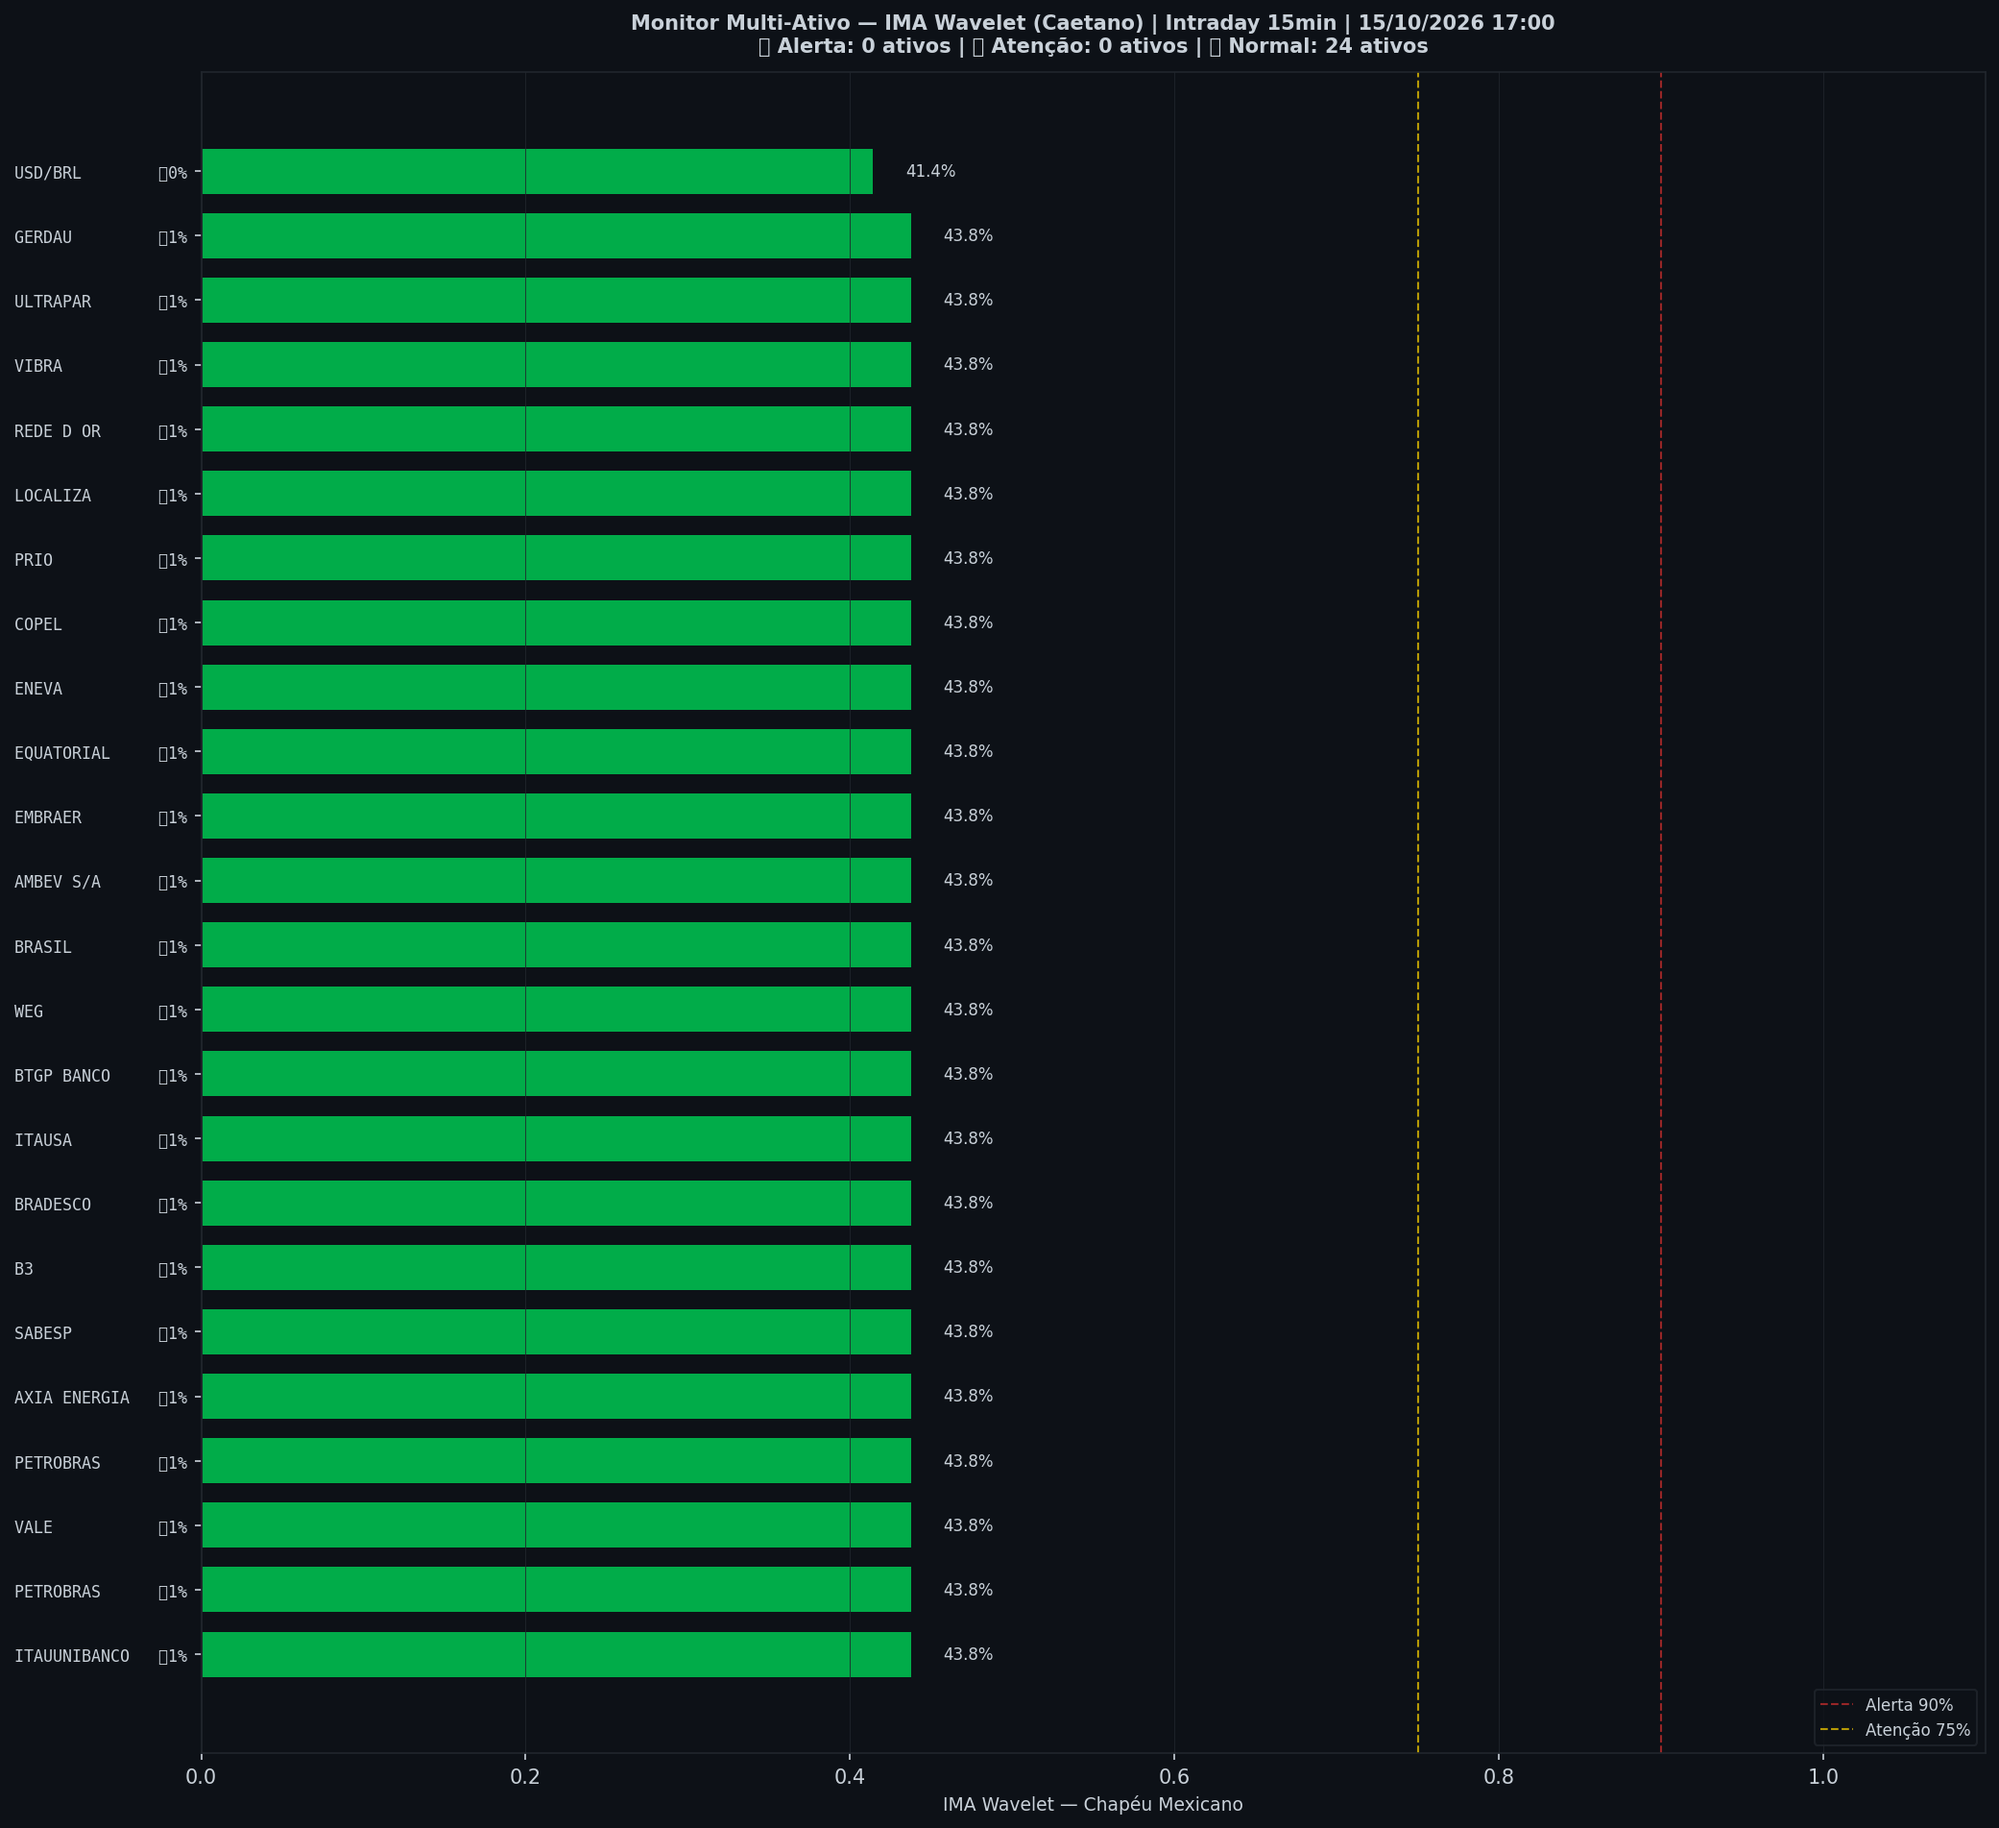
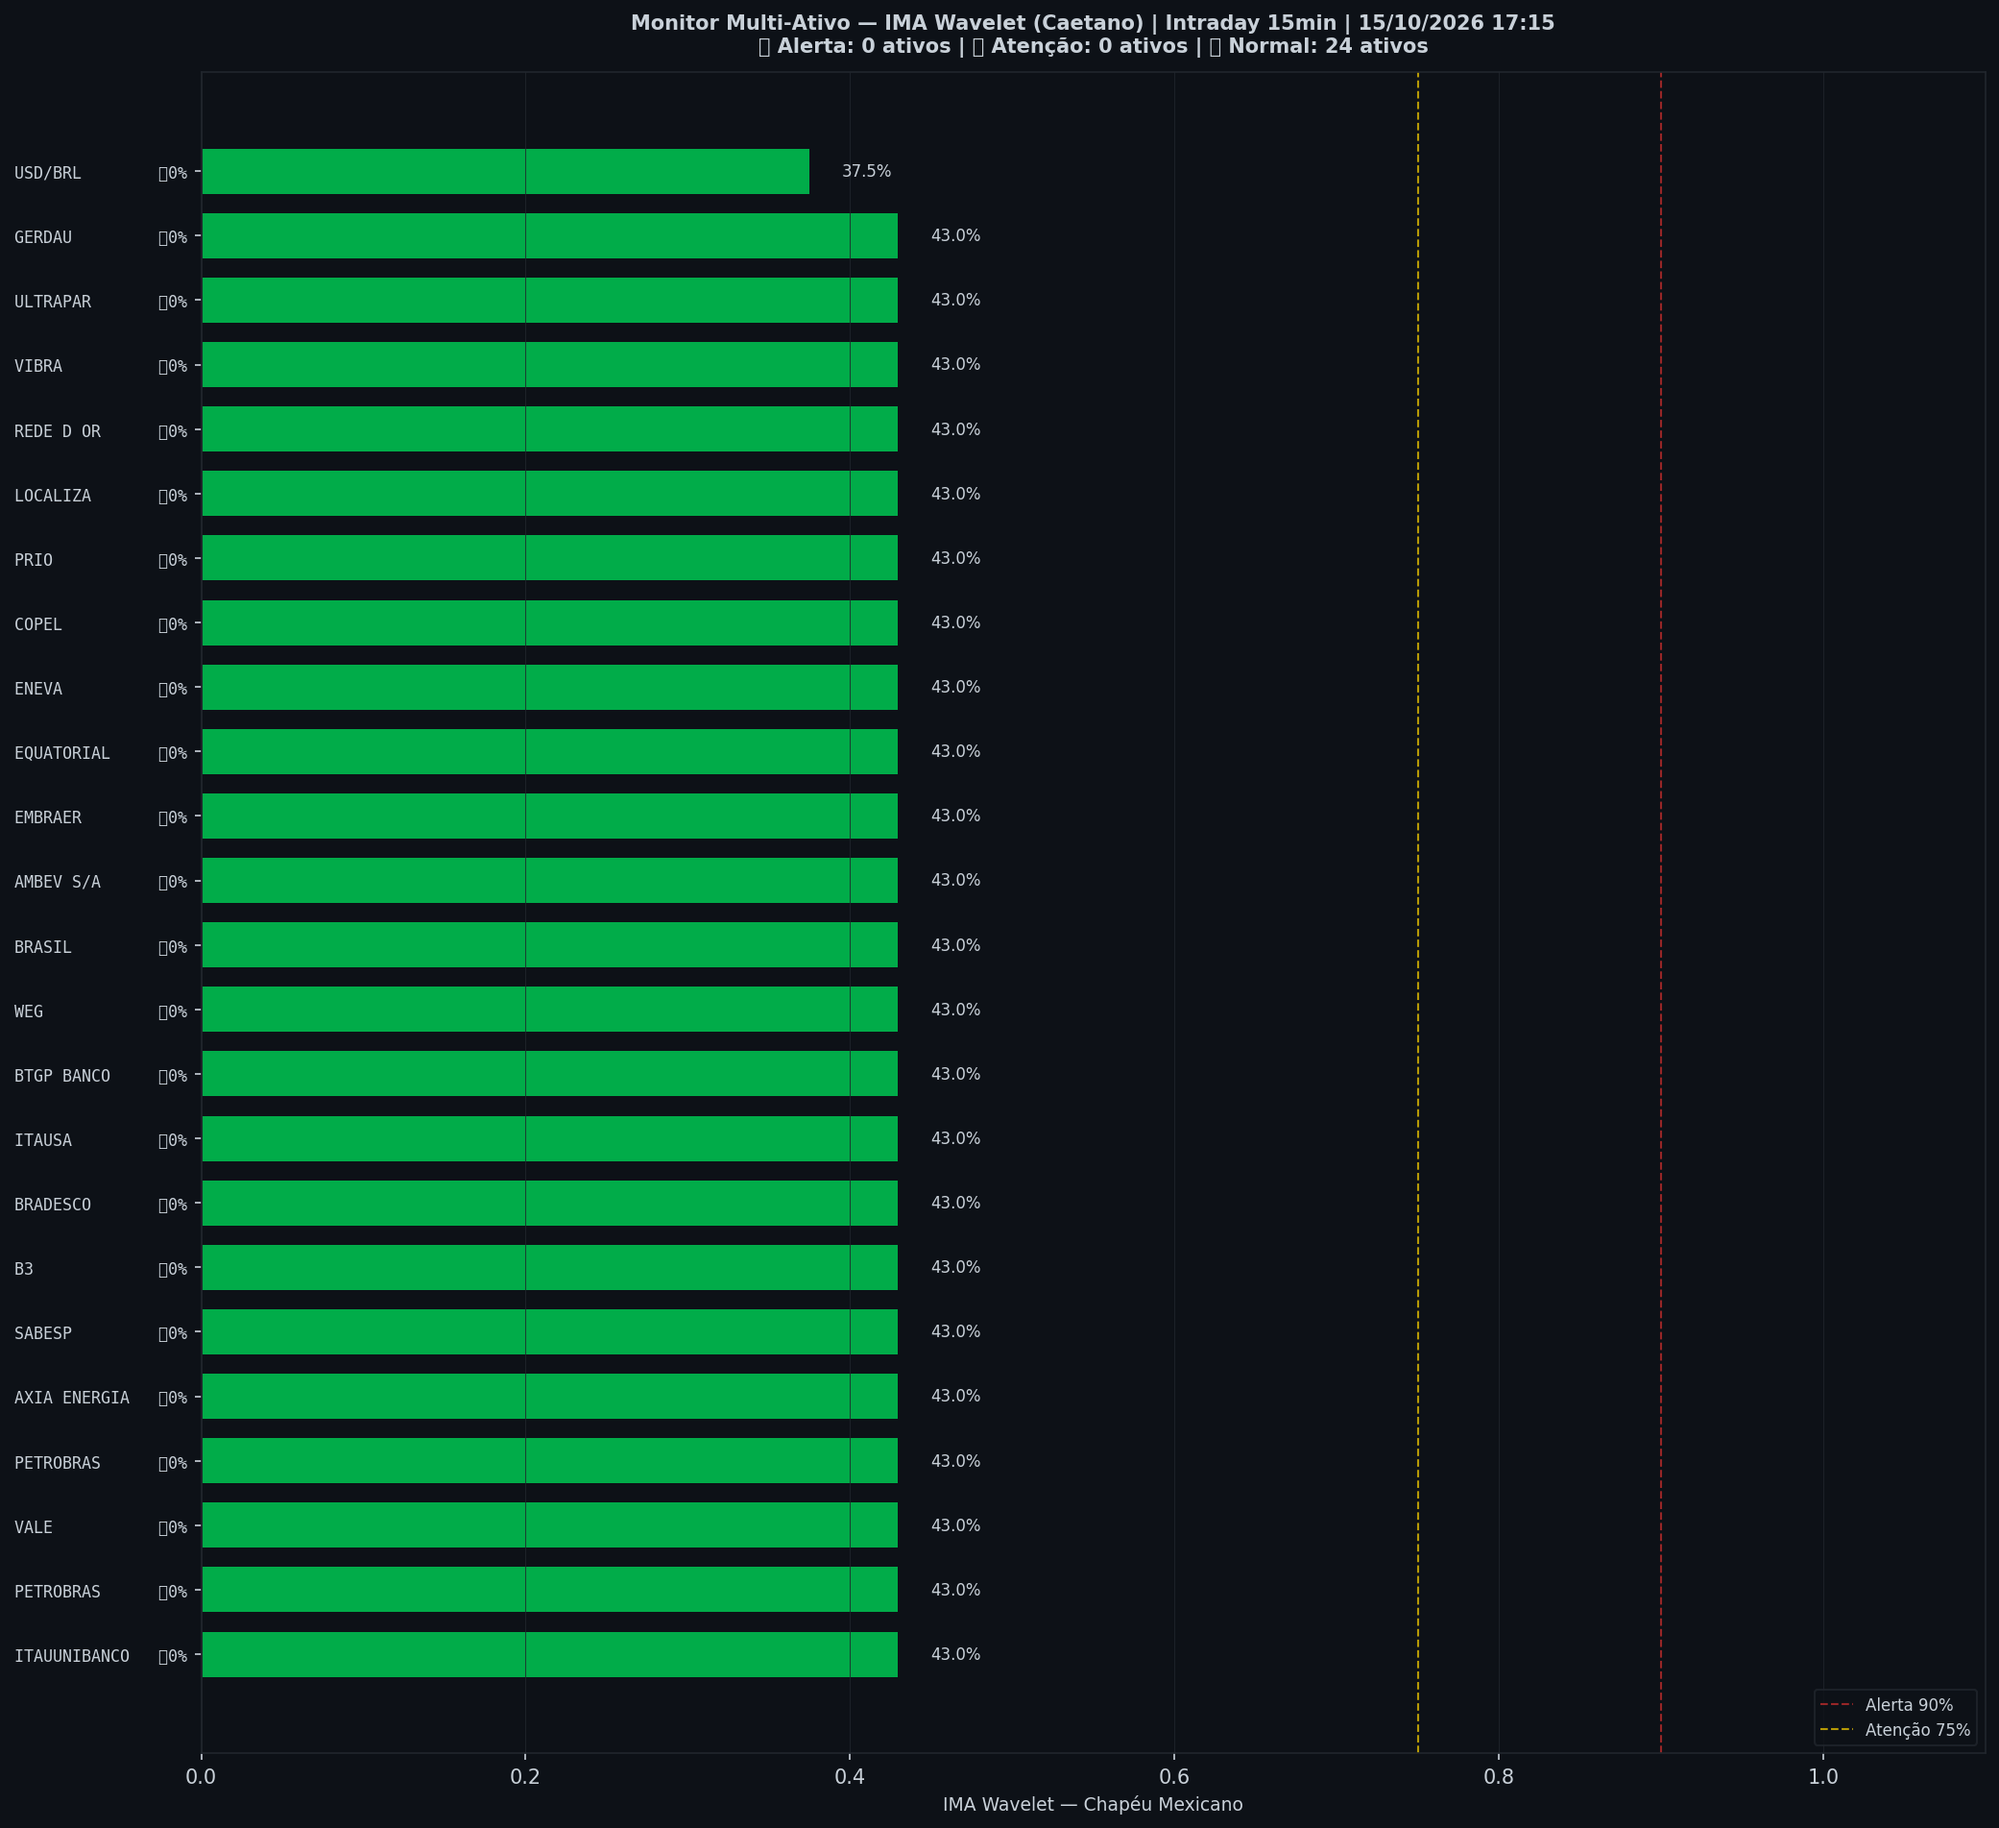
🤖 Auto: Sinal 15/10/2026 17:15

Changed region(s): [[0.4371, 0.124, 0.4995, 0.9301], [0.4059, 0.062, 0.4371, 0.124]]

diff --git a/content/intraday/2026-10-15.md b/content/intraday/2026-10-15.md
@@ -1,10 +1,10 @@
 ---
-title: "🟢 Intraday 15/10/2026 16:15 BRT — VERDE"
+title: "🟢 Intraday 15/10/2026 16:30 BRT — VERDE"
 date: 2026-10-15
 tags: [intraday]
 ---
 
-> [!success] 🟢 **VERDE** — Risco 2% · ▲ +1 p.p. vs leitura anterior
+> [!success] 🟢 **VERDE** — Risco 2% · ＝ +0 p.p. vs leitura anterior
 > `░░░░░░░░░░░░░░░░░░░░`
 > Mercado sem sinais relevantes de estresse.
 
@@ -12,9 +12,9 @@ tags: [intraday]
 | Indicador | Valor |
 |---|---|
 | 🔴 ζ Crash — severidade da queda em curso | **2%** |
-| 🔵 ζ Entrada — estrutura de fundo | 2% |
+| 🔵 ζ Entrada — estrutura de fundo | 5% |
 | 🫧 LPPL DS-Confidence | 0% |
-| 📊 Ibovespa | 203.849 pts |
+| 📊 Ibovespa | 204.063 pts |
 
 ![Gráfico do sinal](../graficos/sinal_intraday.png)
 
@@ -22,6 +22,7 @@ tags: [intraday]
 
 | Data | Zona | Risco | IMA Crash | Entrada | LPPL |
 |---|---|---|---|---|---|
+| 2026-10-15 16:30 | 🟢 VERDE | **2%** | 2% | 5% | 0% |
 | 2026-10-15 16:15 | 🟢 VERDE | **2%** | 2% | 2% | 0% |
 | 2026-10-15 16:00 | 🟢 VERDE | **2%** | 2% | 1% | 0% |
 | 2026-10-15 15:45 | 🟢 VERDE | **0%** | 0% | 0% | 0% |
@@ -51,7 +52,6 @@ tags: [intraday]
 | 2026-10-14 16:45 | 🟢 VERDE | **0%** | 0% | 0% | 0% |
 | 2026-10-14 16:30 | 🟢 VERDE | **0%** | 0% | 2% | 0% |
 | 2026-10-14 16:15 | 🟢 VERDE | **0%** | 0% | 2% | 0% |
-| 2026-10-14 16:00 | 🟢 VERDE | **0%** | 0% | 1% | 0% |
 
 ## Monitor Multi-Ativo
 
@@ -59,34 +59,34 @@ tags: [intraday]
 
 | Zona | Ativo | Setor | IMA Crash | IMA Entrada |
 |---|---|---|---|---|
-| 🟢 | **ITAUUNIBANCO** | Financeiro | 43.8% | 0.8% |
-| 🟢 | **PETROBRAS** | Petróleo | 43.8% | 0.8% |
-| 🟢 | **VALE** | Mineração | 43.8% | 0.8% |
-| 🟢 | **PETROBRAS** | Petróleo | 43.8% | 0.8% |
-| 🟢 | **AXIA ENERGIA** | Energia | 43.8% | 0.8% |
-| 🟢 | **SABESP** | Saneamento | 43.8% | 0.8% |
-| 🟢 | **B3** | Financeiro | 43.8% | 0.8% |
-| 🟢 | **BRADESCO** | Financeiro | 43.8% | 0.8% |
-| 🟢 | **ITAUSA** | Financeiro | 43.8% | 0.8% |
-| 🟢 | **BTGP BANCO** | Financeiro | 43.8% | 0.8% |
-| 🟢 | **WEG** | Industrial | 43.8% | 0.8% |
-| 🟢 | **BRASIL** | Financeiro | 43.8% | 0.8% |
-| 🟢 | **AMBEV S/A** | Consumo | 43.8% | 0.8% |
-| 🟢 | **EMBRAER** | Outros | 43.8% | 0.8% |
-| 🟢 | **EQUATORIAL** | Energia | 43.8% | 0.8% |
-| 🟢 | **ENEVA** | Energia | 43.8% | 0.8% |
-| 🟢 | **COPEL** | Energia | 43.8% | 0.8% |
-| 🟢 | **PRIO** | Petróleo | 43.8% | 0.8% |
-| 🟢 | **LOCALIZA** | Aluguel | 43.8% | 0.8% |
-| 🟢 | **REDE D OR** | Saúde | 43.8% | 0.8% |
-| 🟢 | **VIBRA** | Energia | 43.8% | 0.8% |
-| 🟢 | **ULTRAPAR** | Outros | 43.8% | 0.8% |
-| 🟢 | **GERDAU** | Siderurgia | 43.8% | 0.8% |
-| 🟢 | **USD/BRL** | Câmbio | 41.4% | 0.0% |
+| 🟢 | **ITAUUNIBANCO** | Financeiro | 43.0% | 0.0% |
+| 🟢 | **PETROBRAS** | Petróleo | 43.0% | 0.0% |
+| 🟢 | **VALE** | Mineração | 43.0% | 0.0% |
+| 🟢 | **PETROBRAS** | Petróleo | 43.0% | 0.0% |
+| 🟢 | **AXIA ENERGIA** | Energia | 43.0% | 0.0% |
+| 🟢 | **SABESP** | Saneamento | 43.0% | 0.0% |
+| 🟢 | **B3** | Financeiro | 43.0% | 0.0% |
+| 🟢 | **BRADESCO** | Financeiro | 43.0% | 0.0% |
+| 🟢 | **ITAUSA** | Financeiro | 43.0% | 0.0% |
+| 🟢 | **BTGP BANCO** | Financeiro | 43.0% | 0.0% |
+| 🟢 | **WEG** | Industrial | 43.0% | 0.0% |
+| 🟢 | **BRASIL** | Financeiro | 43.0% | 0.0% |
+| 🟢 | **AMBEV S/A** | Consumo | 43.0% | 0.0% |
+| 🟢 | **EMBRAER** | Outros | 43.0% | 0.0% |
+| 🟢 | **EQUATORIAL** | Energia | 43.0% | 0.0% |
+| 🟢 | **ENEVA** | Energia | 43.0% | 0.0% |
+| 🟢 | **COPEL** | Energia | 43.0% | 0.0% |
+| 🟢 | **PRIO** | Petróleo | 43.0% | 0.0% |
+| 🟢 | **LOCALIZA** | Aluguel | 43.0% | 0.0% |
+| 🟢 | **REDE D OR** | Saúde | 43.0% | 0.0% |
+| 🟢 | **VIBRA** | Energia | 43.0% | 0.0% |
+| 🟢 | **ULTRAPAR** | Outros | 43.0% | 0.0% |
+| 🟢 | **GERDAU** | Siderurgia | 43.0% | 0.0% |
+| 🟢 | **USD/BRL** | Câmbio | 37.5% | 0.0% |
 
 ![Monitor multi-ativo](../graficos/multi_intraday.png)
 
-*Página atualizada em 15/10/2026 17:01 BRT (leitura da barra de 2026-10-15 16:15 BRT).*
+*Página atualizada em 15/10/2026 17:15 BRT (leitura da barra de 2026-10-15 16:30 BRT).*
 
 > [!info]- Como interpretar (clique para expandir)
 > - **ζ Crash**: fração dos coeficientes wavelet acima do corte (Caetano & Yoneyama 2009). Escala absoluta: ζ=0,90 = 90% dos coeficientes anômalos — historicamente, quedas com ζ≥0,90 foram mais fundas e mais longas. **Mede a severidade do movimento em curso, não prevê o início da queda.**

diff --git a/content/index.md b/content/index.md
@@ -8,9 +8,9 @@ tags: [home]
 
 Monitoramento diário e intraday do Ibovespa — **IMA Wavelet** (Prof. Marco Antonio Leonel Caetano, ITA/INSPER) + **LPPL DS-Confidence** (Prof. Didier Sornette, ETH-Zurich).
 
-*Última atualização: 15/10/2026 17:01 BRT · ^BVSP · Intraday 15min · v4*
+*Última atualização: 15/10/2026 17:15 BRT · ^BVSP · Intraday 15min · v4*
 
-> [!success] 🟢 **VERDE** — Risco 2% · ▲ +1 p.p. vs leitura anterior
+> [!success] 🟢 **VERDE** — Risco 2% · ＝ +0 p.p. vs leitura anterior
 > `░░░░░░░░░░░░░░░░░░░░`
 > Mercado sem sinais relevantes de estresse.
 
@@ -18,9 +18,9 @@ Monitoramento diário e intraday do Ibovespa — **IMA Wavelet** (Prof. Marco An
 | Indicador | Valor |
 |---|---|
 | 🔴 ζ Crash — severidade da queda em curso | **2%** |
-| 🔵 ζ Entrada — estrutura de fundo | 2% |
+| 🔵 ζ Entrada — estrutura de fundo | 5% |
 | 🫧 LPPL DS-Confidence | 0% |
-| 📊 Ibovespa | 203.849 pts |
+| 📊 Ibovespa | 204.063 pts |
 
 **Multi-ativo:** 0% em tensão (0🔴 0🟡 de 24 ativos)
 

diff --git a/content/historico.md b/content/historico.md
@@ -7,6 +7,7 @@ tags: [historico]
 
 | Data | Modo | Zona | Risco | IMA | LPPL |
 |---|---|---|---|---|---|
+| 2026-10-15 16:30 | intraday | 🟢 VERDE | 2% | 2% | 0% |
 | 2026-10-15 16:15 | intraday | 🟢 VERDE | 2% | 2% | 0% |
 | 2026-10-15 16:00 | intraday | 🟢 VERDE | 2% | 2% | 0% |
 | 2026-10-15 15:45 | intraday | 🟢 VERDE | 0% | 0% | 0% |
